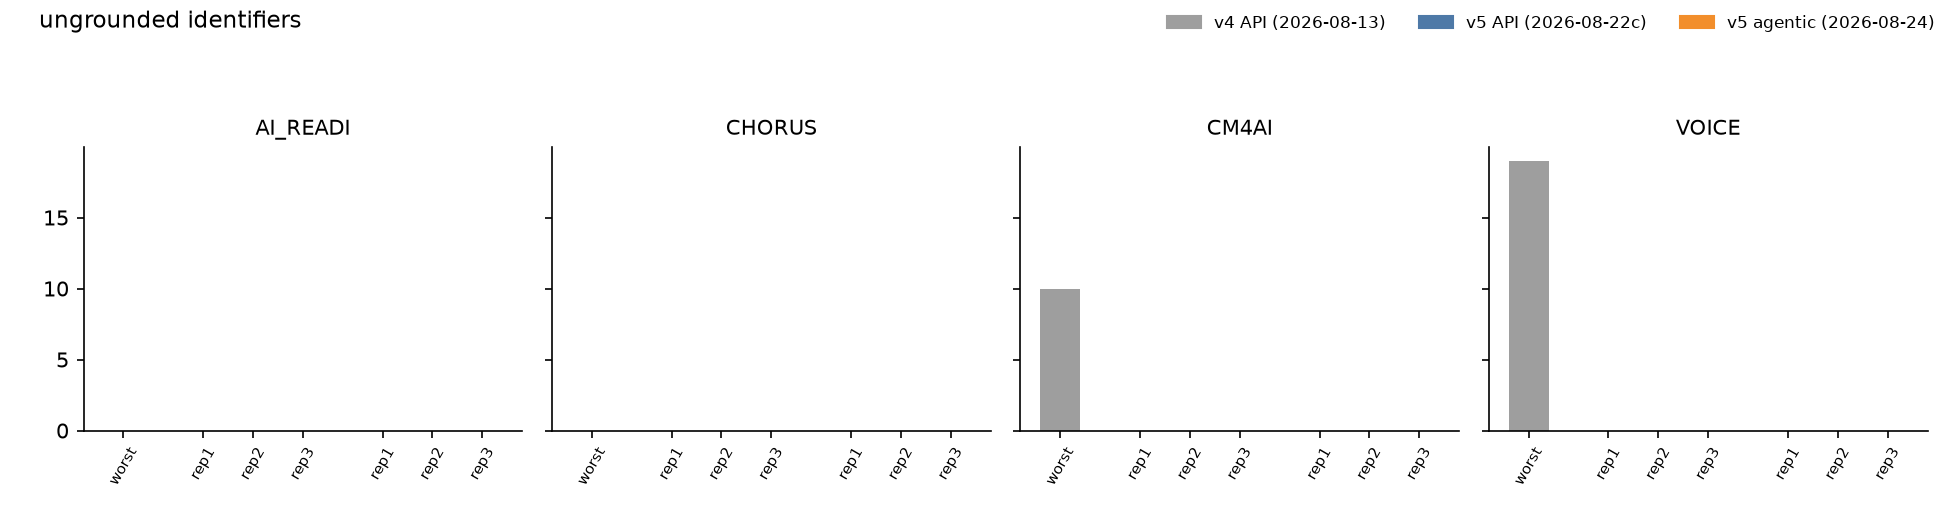
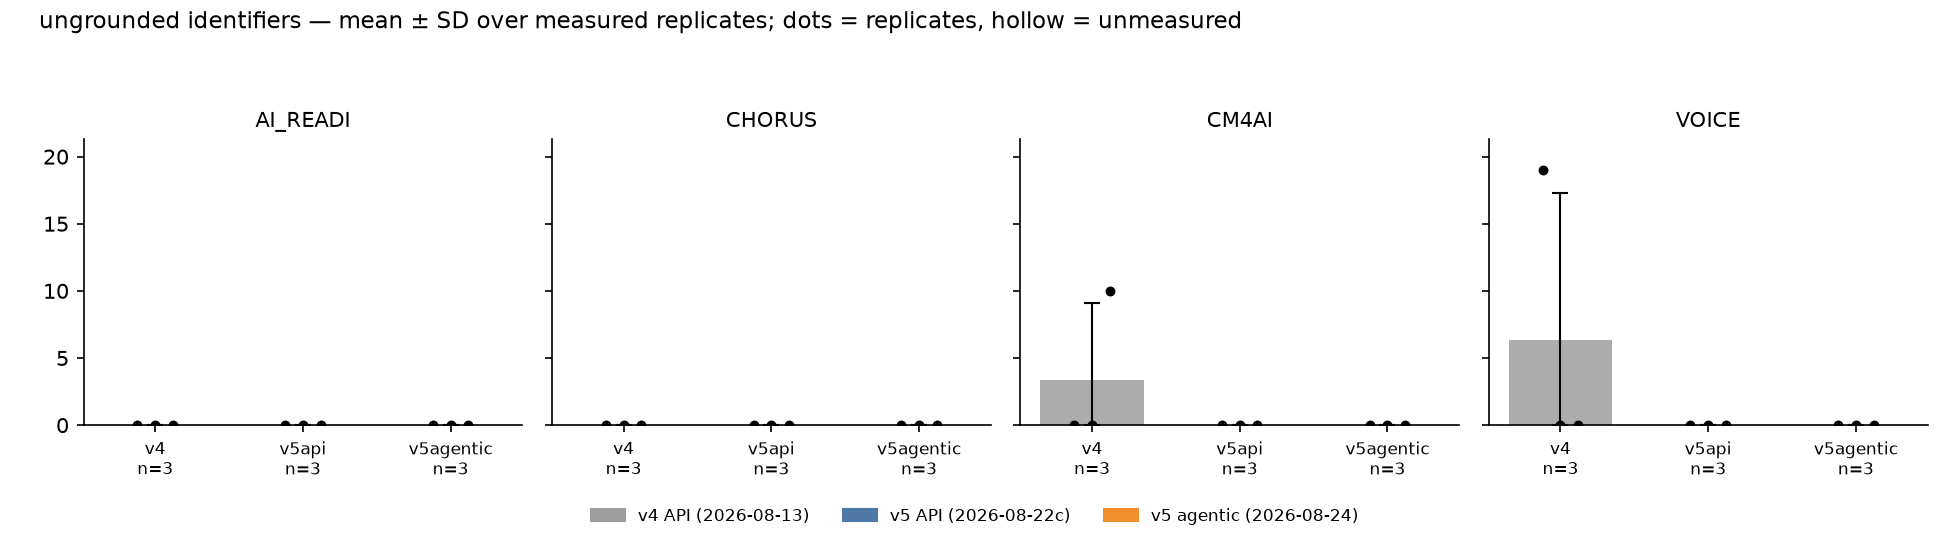
Cross-arm comparison: mean ± SD over replicates (#698)
* Cross-arm comparison: mean ± SD over replicates in the table and figures

Every arm has three replicates per project, so each deterministic cell is
now mean ± sample SD (ddof=1) with the replicate values in brackets; the
baseline arm keeps its per-project worst beside them, because that is the
value the canary gate holds runs against. Figures draw one bar per arm at
the replicate mean with an SD error bar, the replicates as dots, and n
under each bar. An SD over three replicates is labelled as a spread, not a
confidence interval.

Rubric scores get no SD: only each arm's canonical was scored (n = 1 per
arm and project), and the table and figure say so rather than invent one.
Scoring all replicates (24 more evaluations per rubric) is what an SD there
would take.

* Figures: n in the tick label, not overlapping it

* Absorb the #698 review: unmeasured values leave the mean, whiskers stop below zero

F1: a report-findings 0ᵘ (zero parsed claims, #684) was averaged as a
measured zero and drawn as an ordinary replicate dot under "n=3". measured()
now excludes it from the mean and from n; cells with no measured replicate
show only their raw values; a single measured replicate shows its value
without an SD (an SD needs two); the figure draws unmeasured replicates as
hollow dots and n counts only measured ones. The footer says all of this.

F2: count data with n=3 and one outlier — the lower whisker is clipped at
[…]

diff --git a/scripts/arm_comparison.py b/scripts/arm_comparison.py
@@ -44,6 +44,7 @@ from __future__ import annotations
 import argparse
 import json
 import os
+import statistics
 import sys
 from pathlib import Path
 from typing import Any
@@ -68,9 +69,9 @@ OUT_FIG = ROOT / "notes" / "figures"
 PROJECTS = ("AI_READI", "CHORUS", "CM4AI", "VOICE")
 METHOD = "claudecode_agent"
 
-# (key, display, label prefix, runtime, role). `role` says how the arm is
-# shown: "worst" collapses replicates to the per-project worst (the canary
-# gate's baseline convention), "reps" shows all three.
+# (key, display, label prefix, runtime, role). Every arm is shown as mean ± SD
+# over its replicates; `role == "worst"` additionally prints the per-project
+# worst, the value the canary gate holds runs against.
 ARMS = (
     ("v4", "v4 API (2026-08-13)", "2026-08-13_claude-opus-5-api-generic-v4",
      "Claude API via CBORG", "worst"),
@@ -192,6 +193,46 @@ def fmt(m: dict[str, Any], metric: str) -> str:
     return str(v)
 
 
+def measured(r: dict[str, Any], metric: str) -> bool:
+    """Is this replicate's value a measurement? A report-findings 0 with zero
+    parsed claims is unmeasured (#684) and must not enter a mean as a zero."""
+    v = r.get(metric)
+    if v is None:
+        return False
+    if metric == "report" and v == 0 and not r.get("claims_checked"):
+        return False
+    return True
+
+
+def stats(reps: list[dict[str, Any]], metric: str) -> tuple[float, float, int] | None:
+    """Mean and sample SD (ddof=1) over the *measured* replicates; None when
+    there are none. n is always reported beside the figure: three replicates
+    is a small sample, an SD on n=3 is a spread rather than a confidence
+    interval, and with one outlier the SD is that outlier."""
+    vals = [r[metric] for r in reps if measured(r, metric)]
+    if not vals:
+        return None
+    mean = statistics.fmean(vals)
+    sd = statistics.stdev(vals) if len(vals) > 1 else 0.0
+    return mean, sd, len(vals)
+
+
+def cell(reps: list[dict[str, Any]], metric: str, role: str) -> str:
+    """mean ± SD with the replicates in brackets; the baseline arm adds its
+    per-project worst, which is what the canary gate holds runs against."""
+    raw = ",".join(fmt(r, metric) for r in reps)
+    st = stats(reps, metric)
+    if st is None:
+        return f"– [{raw}]" if raw else "–"
+    mean, sd, n = st
+    # An SD needs two values; a single measured replicate gets its value and n.
+    centre = f"{mean:.1f} ± {sd:.1f}" if n > 1 else f"{mean:.1f}"
+    body = f"{centre} [{raw}]" + (f" (n={n})" if n != len(reps) else "")
+    if role == "worst":
+        body += f" worst {worst(reps, metric)}"
+    return body
+
+
 def worst(reps: list[dict[str, Any]], metric: str) -> str:
     """Per-project collapse for the baseline column: the worst value where
     the metric has a direction, the max (labelled as such in the header) for
@@ -226,21 +267,26 @@ def write_markdown(data, scores) -> None:
              "- spend: absent by design — `api_usage` and `run_observed` are different "
              "quantities (#400).", "",
              "Arms: " + "; ".join(f"**{d}** — `{pfx}_rep{{1,2,3}}`, {rt}"
-                                   + (" (shown as per-project worst; max for reported-only metrics)" if role == "worst" else "")
+                                   + (" (also shown with its per-project worst — max for reported-only metrics — the canary-gate baseline)" if role == "worst" else "")
                                    for _k, d, pfx, rt, role in ARMS), ""]
 
-    lines += ["## Deterministic metrics — three replicates per cell", "",
+    lines += ["## Deterministic metrics — mean ± SD over replicates", "",
               "| metric | project | " + " | ".join(d for _k, d, *_ in ARMS) + " |",
               "|---|---|" + "|".join("---" for _ in ARMS) + "|"]
     for mk, (disp, _src, _hiw, _cav) in METRICS.items():
         for p in PROJECTS:
             cells = []
             for key, _d, _pfx, _rt, role in ARMS:
-                reps = data[key][p]
-                cells.append(worst(reps, mk) if role == "worst"
-                             else ",".join(fmt(r, mk) for r in reps) or "–")
+                cells.append(cell(data[key][p], mk, role))
             lines.append(f"| {disp} | {p} | " + " | ".join(cells) + " |")
-    lines += ["", "ᵘ = unmeasured: the report-claims checker parsed zero claims (#684).", ""]
+    lines += ["", "Cells are mean ± sample SD over the *measured* replicates, with every "
+              "replicate value in brackets; n is 3 unless stated. The baseline arm adds "
+              "its per-project worst, the value the canary gate holds runs against. Read "
+              "the SD as a spread, not a confidence interval: with n = 3 and one outlier "
+              "(e.g. [3,14,130]) the SD is that outlier, and the bracketed values are the "
+              "better summary. ᵘ = unmeasured — the report-claims checker parsed zero "
+              "claims (#684); unmeasured values are excluded from the mean and n, and a "
+              "cell with no measured replicate shows only its raw values.", ""]
 
     lines += ["## Per-metric caveats (attached, not footnoted elsewhere)", ""]
     for mk, (disp, src, _hiw, cav) in METRICS.items():
@@ -249,7 +295,7 @@ def write_markdown(data, scores) -> None:
     lines.append("")
 
     for rubric, rscores in scores.items():
-        lines += [f"## {rubric.capitalize()}-semantic scores (canonical / would-be canonical records only)", "",
+        lines += [f"## {rubric.capitalize()}-semantic scores (canonical / would-be canonical records only; n = 1 per arm and project, so no SD)", "",
                   "| project | " + " | ".join(d for _k, d, *_ in ARMS) + " |",
                   "|---|" + "|".join("---" for _ in ARMS) + "|"]
         for p in PROJECTS:
@@ -279,35 +325,51 @@ def write_figures(data, scores) -> None:
     OUT_FIG.mkdir(parents=True, exist_ok=True)
     colors = {"v4": "#9e9e9e", "v5api": "#4e79a7", "v5agentic": "#f28e2b"}
 
-    # One figure per metric: 4 project panels, bars per arm (worst) or per rep.
-    for mk, (disp, _src, _hiw, cav) in METRICS.items():
-        fig, axes = plt.subplots(1, len(PROJECTS), figsize=(13, 3.4), sharey=True)
+    # One figure per metric: 4 project panels, one bar per arm = replicate mean,
+    # error bar = sample SD (n printed under the bar). Replicates are dots.
+    for mk, (disp, _src, _hiw, _cav) in METRICS.items():
+        fig, axes = plt.subplots(1, len(PROJECTS), figsize=(13, 3.6), sharey=True)
+        top = 0.0
         for ax, p in zip(axes, PROJECTS):
-            xs, hs, cs, labels = [], [], [], []
-            x = 0
-            for key, d, _pfx, _rt, role in ARMS:
+            ns: dict[int, int] = {}
+            for i, (key, *_rest) in enumerate(ARMS):
                 reps = data[key][p]
-                if role == "worst":
-                    vals = [r[mk] for r in reps if r.get(mk) is not None]
-                    if vals:
-                        xs.append(x); hs.append(max(vals)); cs.append(colors[key]); labels.append("worst")
-                        x += 1
-                else:
-                    for r in reps:
-                        if r.get(mk) is None:
-                            continue
-                        xs.append(x); hs.append(r[mk]); cs.append(colors[key])
-                        labels.append(r["label"].rsplit("_", 1)[-1] + ("ᵘ" if mk == "report" and r[mk] == 0 and not r.get("claims_checked") else ""))
-                        x += 1
-                x += 0.6
-            ax.bar(xs, hs, color=cs, width=0.8)
-            ax.set_xticks(xs); ax.set_xticklabels(labels, fontsize=7, rotation=60)
+                st = stats(reps, mk)
+                if st is not None:
+                    mean, sd, n = st
+                    top = max(top, mean + (sd if n > 1 else 0))
+                    ax.bar(i, mean, color=colors[key], width=0.7, alpha=0.85)
+                    # Counts cannot go below zero; the lower whisker is clipped.
+                    # No whisker at all for a single measured replicate.
+                    if n > 1:
+                        ax.errorbar(i, mean, yerr=[[min(sd, mean)], [sd]], fmt="none",
+                                    ecolor="black", capsize=4, lw=1)
+                    ns[i] = n
+                # Replicates as dots: filled when measured, hollow when the
+                # value is an unmeasured 0ᵘ (#684) and so not in the mean.
+                for j, r in enumerate(reps):
+                    v = r.get(mk)
+                    if v is None:
+                        continue
+                    x = i + (j - 1) * 0.12
+                    top = max(top, v)
+                    if measured(r, mk):
+                        ax.scatter([x], [v], s=14, color="black", zorder=3)
+                    else:
+                        ax.scatter([x], [v], s=18, facecolors="white", edgecolors="black", zorder=3)
+            ax.set_xticks(range(len(ARMS)))
+            ax.set_xticklabels([f"{k}\nn={ns[i]}" if i in ns else f"{k}\n–"
+                                for i, (k, *_) in enumerate(ARMS)], fontsize=8)
             ax.set_title(p, fontsize=10)
             ax.spines[["top", "right"]].set_visible(False)
+        # One shared y-range for the row, floored at zero (counts) and sized to
+        # the tallest bar-plus-whisker across all panels — set once, after every
+        # panel is drawn, so no panel's autoscale freezes the top early.
+        axes[0].set_ylim(0, max(1.0, top) * 1.12)
         handles = [plt.Rectangle((0, 0), 1, 1, color=colors[k]) for k, *_ in ARMS]
-        fig.legend(handles, [d for _k, d, *_ in ARMS], loc="upper right", fontsize=8, ncol=3, frameon=False)
-        fig.suptitle(disp, x=0.02, ha="left", fontsize=11)
-        fig.tight_layout(rect=(0, 0, 1, 0.9))
+        fig.legend(handles, [d for _k, d, *_ in ARMS], loc="lower center", fontsize=8, ncol=3, frameon=False)
+        fig.suptitle(f"{disp} — mean ± SD over measured replicates; dots = replicates, hollow = unmeasured", x=0.02, ha="left", fontsize=11)
+        fig.tight_layout(rect=(0, 0.07, 1, 0.92))
         out = OUT_FIG / f"arm_comparison_{mk}.png"
         fig.savefig(out, dpi=150); plt.close(fig)
         print(f"wrote {out.relative_to(ROOT)}")
@@ -348,9 +410,10 @@ def _rubric_figure(rubric, scores, colors) -> None:
     ax.set_ylabel(f"{rubric}-semantic points (axis: unadjusted max {RUBRIC_MAX[rubric]})")
     ax.spines[["top", "right"]].set_visible(False)
     ax.legend(frameon=False, fontsize=8, loc="upper center", bbox_to_anchor=(0.5, -0.12), ncol=len(arm_keys))
-    ax.set_title(f"{rubric.capitalize()}-semantic, canonical records (same evaluator model)"
-                 + (f" — no evaluations exist for: {', '.join(absent)}" if absent else ""),
+    ax.set_title(f"{rubric.capitalize()}-semantic, canonical records (same evaluator; n = 1 per bar, no SD)",
                  fontsize=9, loc="left")
+    if absent:
+        fig.text(0.01, 0.01, f"No evaluations exist for: {', '.join(absent)}", fontsize=7, color="#555")
     fig.tight_layout()
     out = OUT_FIG / f"arm_comparison_{rubric}.png"
     fig.savefig(out, dpi=150); plt.close(fig)

diff --git a/notes/arm_comparison.md b/notes/arm_comparison.md
@@ -9,46 +9,46 @@ Generated by `scripts/arm_comparison.py` from the provenance records under `data
 - rubric scores: `data/evaluation_llm/rubric{10,20}_semantic/label_aware/`, same evaluator for every arm shown; N/A exclusions are evaluator judgements, so adjusted maxima can differ between comparable records.
 - spend: absent by design — `api_usage` and `run_observed` are different quantities (#400).
 
-Arms: **v4 API (2026-08-13)** — `2026-08-13_claude-opus-5-api-generic-v4_rep{1,2,3}`, Claude API via CBORG (shown as per-project worst; max for reported-only metrics); **v5 API (2026-08-22c)** — `2026-08-22c_claude-opus-5-api-generic-v5_rep{1,2,3}`, Claude API via CBORG; **v5 agentic (2026-08-24)** — `2026-08-24_claude-opus-5-claudecode-generic-v5_rep{1,2,3}`, Claude Code
+Arms: **v4 API (2026-08-13)** — `2026-08-13_claude-opus-5-api-generic-v4_rep{1,2,3}`, Claude API via CBORG (also shown with its per-project worst — max for reported-only metrics — the canary-gate baseline); **v5 API (2026-08-22c)** — `2026-08-22c_claude-opus-5-api-generic-v5_rep{1,2,3}`, Claude API via CBORG; **v5 agentic (2026-08-24)** — `2026-08-24_claude-opus-5-claudecode-generic-v5_rep{1,2,3}`, Claude Code
 
-## Deterministic metrics — three replicates per cell
+## Deterministic metrics — mean ± SD over replicates
 
 | metric | project | v4 API (2026-08-13) | v5 API (2026-08-22c) | v5 agentic (2026-08-24) |
 |---|---|---|---|---|
-| ungrounded identifiers | AI_READI | 0 | 0,0,0 | 0,0,0 |
-| ungrounded identifiers | CHORUS | 0 | 0,0,0 | 0,0,0 |
-| ungrounded identifiers | CM4AI | 10 | 0,0,0 | 0,0,0 |
-| ungrounded identifiers | VOICE | 19 | 0,0,0 | 0,0,0 |
-| organisational fragments | AI_READI | 0 | 0,0,0 | 0,0,0 |
-| organisational fragments | CHORUS | 0 | 0,0,0 | 0,0,0 |
-| organisational fragments | CM4AI | 0 | 0,0,0 | 0,0,0 |
-| organisational fragments | VOICE | 7 | 0,0,0 | 0,0,0 |
-| undeclared prefixes | AI_READI | 6 | 0,0,0 | 0,0,0 |
-| undeclared prefixes | CHORUS | 228 | 0,0,0 | 0,0,0 |
-| undeclared prefixes | CM4AI | 86 | 0,0,0 | 0,0,0 |
-| undeclared prefixes | VOICE | 0 | 0,0,0 | 0,0,0 |
-| British spellings | AI_READI | 183 | 20,37,0 | 4,0,0 |
-| British spellings | CHORUS | 20 | 0,0,0 | 0,0,0 |
-| British spellings | CM4AI | 53 | 0,0,0 | 0,4,0 |
-| British spellings | VOICE | 59 | 2,0,6 | 3,4,0 |
-| pair errors | AI_READI | 10 | 2,18,6 | 0,0,0 |
-| pair errors | CHORUS | 6 | 1,0,2 | 0,0,0 |
-| pair errors | CM4AI | 9 | 4,5,9 | 0,0,0 |
-| pair errors | VOICE | 9 | 7,5,5 | 0,0,0 |
-| report findings | AI_READI | 2 | 0ᵘ,1,0ᵘ | 0ᵘ,0ᵘ,0ᵘ |
-| report findings | CHORUS | 0ᵘ | 0ᵘ,0ᵘ,0ᵘ | 0ᵘ,0ᵘ,0 |
-| report findings | CM4AI | 4 | 2,0ᵘ,0ᵘ | 0ᵘ,0ᵘ,0ᵘ |
-| report findings | VOICE | 2 | 0ᵘ,1,1 | 0ᵘ,0ᵘ,0ᵘ |
-| minted fragments (reported) | AI_READI | 17 | 0,13,14 | 16,3,12 |
-| minted fragments (reported) | CHORUS | 0 | 0,0,0 | 0,0,0 |
-| minted fragments (reported) | CM4AI | 12 | 15,10,16 | 42,55,51 |
-| minted fragments (reported) | VOICE | 14 | 0,0,8 | 3,14,130 |
-| GC label variants (reported) | AI_READI | 0 | 1,0,0 | 0,0,0 |
-| GC label variants (reported) | CHORUS | 0 | 0,0,0 | 0,0,0 |
-| GC label variants (reported) | CM4AI | 0 | 0,0,0 | 0,0,0 |
-| GC label variants (reported) | VOICE | 63 | 53,71,73 | 40,40,30 |
+| ungrounded identifiers | AI_READI | 0.0 ± 0.0 [0,0,0] worst 0 | 0.0 ± 0.0 [0,0,0] | 0.0 ± 0.0 [0,0,0] |
+| ungrounded identifiers | CHORUS | 0.0 ± 0.0 [0,0,0] worst 0 | 0.0 ± 0.0 [0,0,0] | 0.0 ± 0.0 [0,0,0] |
+| ungrounded identifiers | CM4AI | 3.3 ± 5.8 [0,0,10] worst 10 | 0.0 ± 0.0 [0,0,0] | 0.0 ± 0.0 [0,0,0] |
+| ungrounded identifiers | VOICE | 6.3 ± 11.0 [19,0,0] worst 19 | 0.0 ± 0.0 [0,0,0] | 0.0 ± 0.0 [0,0,0] |
+| organisational fragments | AI_READI | 0.0 ± 0.0 [0,0,0] worst 0 | 0.0 ± 0.0 [0,0,0] | 0.0 ± 0.0 [0,0,0] |
+| organisational fragments | CHORUS | 0.0 ± 0.0 [0,0,0] worst 0 | 0.0 ± 0.0 [0,0,0] | 0.0 ± 0.0 [0,0,0] |
+| organisational fragments | CM4AI | 0.0 ± 0.0 [0,0,0] worst 0 | 0.0 ± 0.0 [0,0,0] | 0.0 ± 0.0 [0,0,0] |
+| organisational fragments | VOICE | 2.3 ± 4.0 [7,0,0] worst 7 | 0.0 ± 0.0 [0,0,0] | 0.0 ± 0.0 [0,0,0] |
+| undeclared prefixes | AI_READI | 2.0 ± 3.5 [0,6,0] worst 6 | 0.0 ± 0.0 [0,0,0] | 0.0 ± 0.0 [0,0,0] |
+| undeclared prefixes | CHORUS | 76.0 ± 131.6 [228,0,0] worst 228 | 0.0 ± 0.0 [0,0,0] | 0.0 ± 0.0 [0,0,0] |
+| undeclared prefixes | CM4AI | 42.3 ± 43.0 [0,86,41] worst 86 | 0.0 ± 0.0 [0,0,0] | 0.0 ± 0.0 [0,0,0] |
+| undeclared prefixes | VOICE | 0.0 ± 0.0 [0,0,0] worst 0 | 0.0 ± 0.0 [0,0,0] | 0.0 ± 0.0 [0,0,0] |
+| British spellings | AI_READI | 136.7 ± 41.5 [183,103,124] worst 183 | 19.0 ± 18.5 [20,37,0] | 1.3 ± 2.3 [4,0,0] |
+| British spellings | CHORUS | 16.7 ± 5.8 [20,20,10] worst 20 | 0.0 ± 0.0 [0,0,0] | 0.0 ± 0.0 [0,0,0] |
+| British spellings | CM4AI | 19.7 ± 28.9 [53,4,2] worst 53 | 0.0 ± 0.0 [0,0,0] | 1.3 ± 2.3 [0,4,0] |
+| British spellings | VOICE | 47.7 ± 14.0 [32,59,52] worst 59 | 2.7 ± 3.1 [2,0,6] | 2.3 ± 2.1 [3,4,0] |
+| pair errors | AI_READI | 8.0 ± 2.0 [10,8,6] worst 10 | 8.7 ± 8.3 [2,18,6] | 0.0 ± 0.0 [0,0,0] |
+| pair errors | CHORUS | 3.0 ± 3.0 [6,0,3] worst 6 | 1.0 ± 1.0 [1,0,2] | 0.0 ± 0.0 [0,0,0] |
+| pair errors | CM4AI | 6.0 ± 3.0 [6,9,3] worst 9 | 6.0 ± 2.6 [4,5,9] | 0.0 ± 0.0 [0,0,0] |
+| pair errors | VOICE | 6.3 ± 2.5 [9,4,6] worst 9 | 5.7 ± 1.2 [7,5,5] | 0.0 ± 0.0 [0,0,0] |
+| report findings | AI_READI | 1.7 ± 0.6 [2,1,2] worst 2 | 1.0 [0ᵘ,1,0ᵘ] (n=1) | – [0ᵘ,0ᵘ,0ᵘ] |
+| report findings | CHORUS | – [0ᵘ,0ᵘ,0ᵘ] | – [0ᵘ,0ᵘ,0ᵘ] | 0.0 [0ᵘ,0ᵘ,0] (n=1) |
+| report findings | CM4AI | 2.7 ± 1.5 [3,1,4] worst 4 | 2.0 [2,0ᵘ,0ᵘ] (n=1) | – [0ᵘ,0ᵘ,0ᵘ] |
+| report findings | VOICE | 2.0 ± 0.0 [2,2,2] worst 2 | 1.0 ± 0.0 [0ᵘ,1,1] (n=2) | – [0ᵘ,0ᵘ,0ᵘ] |
+| minted fragments (reported) | AI_READI | 14.7 ± 2.1 [17,14,13] worst 17 | 9.0 ± 7.8 [0,13,14] | 10.3 ± 6.7 [16,3,12] |
+| minted fragments (reported) | CHORUS | 0.0 ± 0.0 [0,0,0] worst 0 | 0.0 ± 0.0 [0,0,0] | 0.0 ± 0.0 [0,0,0] |
+| minted fragments (reported) | CM4AI | 4.0 ± 6.9 [12,0,0] worst 12 | 13.7 ± 3.2 [15,10,16] | 49.3 ± 6.7 [42,55,51] |
+| minted fragments (reported) | VOICE | 4.7 ± 8.1 [0,0,14] worst 14 | 2.7 ± 4.6 [0,0,8] | 49.0 ± 70.4 [3,14,130] |
+| GC label variants (reported) | AI_READI | 0.0 ± 0.0 [0,0,0] worst 0 | 0.3 ± 0.6 [1,0,0] | 0.0 ± 0.0 [0,0,0] |
+| GC label variants (reported) | CHORUS | 0.0 ± 0.0 [0,0,0] worst 0 | 0.0 ± 0.0 [0,0,0] | 0.0 ± 0.0 [0,0,0] |
+| GC label variants (reported) | CM4AI | 0.0 ± 0.0 [0,0,0] worst 0 | 0.0 ± 0.0 [0,0,0] | 0.0 ± 0.0 [0,0,0] |
+| GC label variants (reported) | VOICE | 59.0 ± 3.5 [57,57,63] worst 63 | 65.7 ± 11.0 [53,71,73] | 36.7 ± 5.8 [40,40,30] |
 
-ᵘ = unmeasured: the report-claims checker parsed zero claims (#684).
+Cells are mean ± sample SD over the *measured* replicates, with every replicate value in brackets; n is 3 unless stated. The baseline arm adds its per-project worst, the value the canary gate holds runs against. Read the SD as a spread, not a confidence interval: with n = 3 and one outlier (e.g. [3,14,130]) the SD is that outlier, and the bracketed values are the better summary. ᵘ = unmeasured — the report-claims checker parsed zero claims (#684); unmeasured values are excluded from the mean and n, and a cell with no measured replicate shows only its raw values.
 
 ## Per-metric caveats (attached, not footnoted elsewhere)
 
@@ -61,7 +61,7 @@ Arms: **v4 API (2026-08-13)** — `2026-08-13_claude-opus-5-api-generic-v4_rep{1
 - **minted fragments (reported)** — record block. reported-only; every fragment hangs off an attested base wherever ungrounded is 0. Appetite varies 3→130 within one project (#685).
 - **GC label variants (reported)** — live recompute, current instrument. reported-only; counted against the manifest naming declaration decided 2026-08-22, so anachronistic for the v4 arm and same-day for 22c. For VOICE the count is the dataset's own PhysioNet title, lawful under the proper-noun carve-out (#674).
 
-## Rubric10-semantic scores (canonical / would-be canonical records only)
+## Rubric10-semantic scores (canonical / would-be canonical records only; n = 1 per arm and project, so no SD)
 
 | project | v4 API (2026-08-13) | v5 API (2026-08-22c) | v5 agentic (2026-08-24) |
 |---|---|---|---|
@@ -70,7 +70,7 @@ Arms: **v4 API (2026-08-13)** — `2026-08-13_claude-opus-5-api-generic-v4_rep{1
 | CM4AI | – | 47/50 (94.0%, rep1) | 47/50 (94.0%, rep2) |
 | VOICE | – | 50/50 (100.0%, rep2) | 49/50 (98.0%, rep1) |
 
-## Rubric20-semantic scores (canonical / would-be canonical records only)
+## Rubric20-semantic scores (canonical / would-be canonical records only; n = 1 per arm and project, so no SD)
 
 | project | v4 API (2026-08-13) | v5 API (2026-08-22c) | v5 agentic (2026-08-24) |
 |---|---|---|---|
